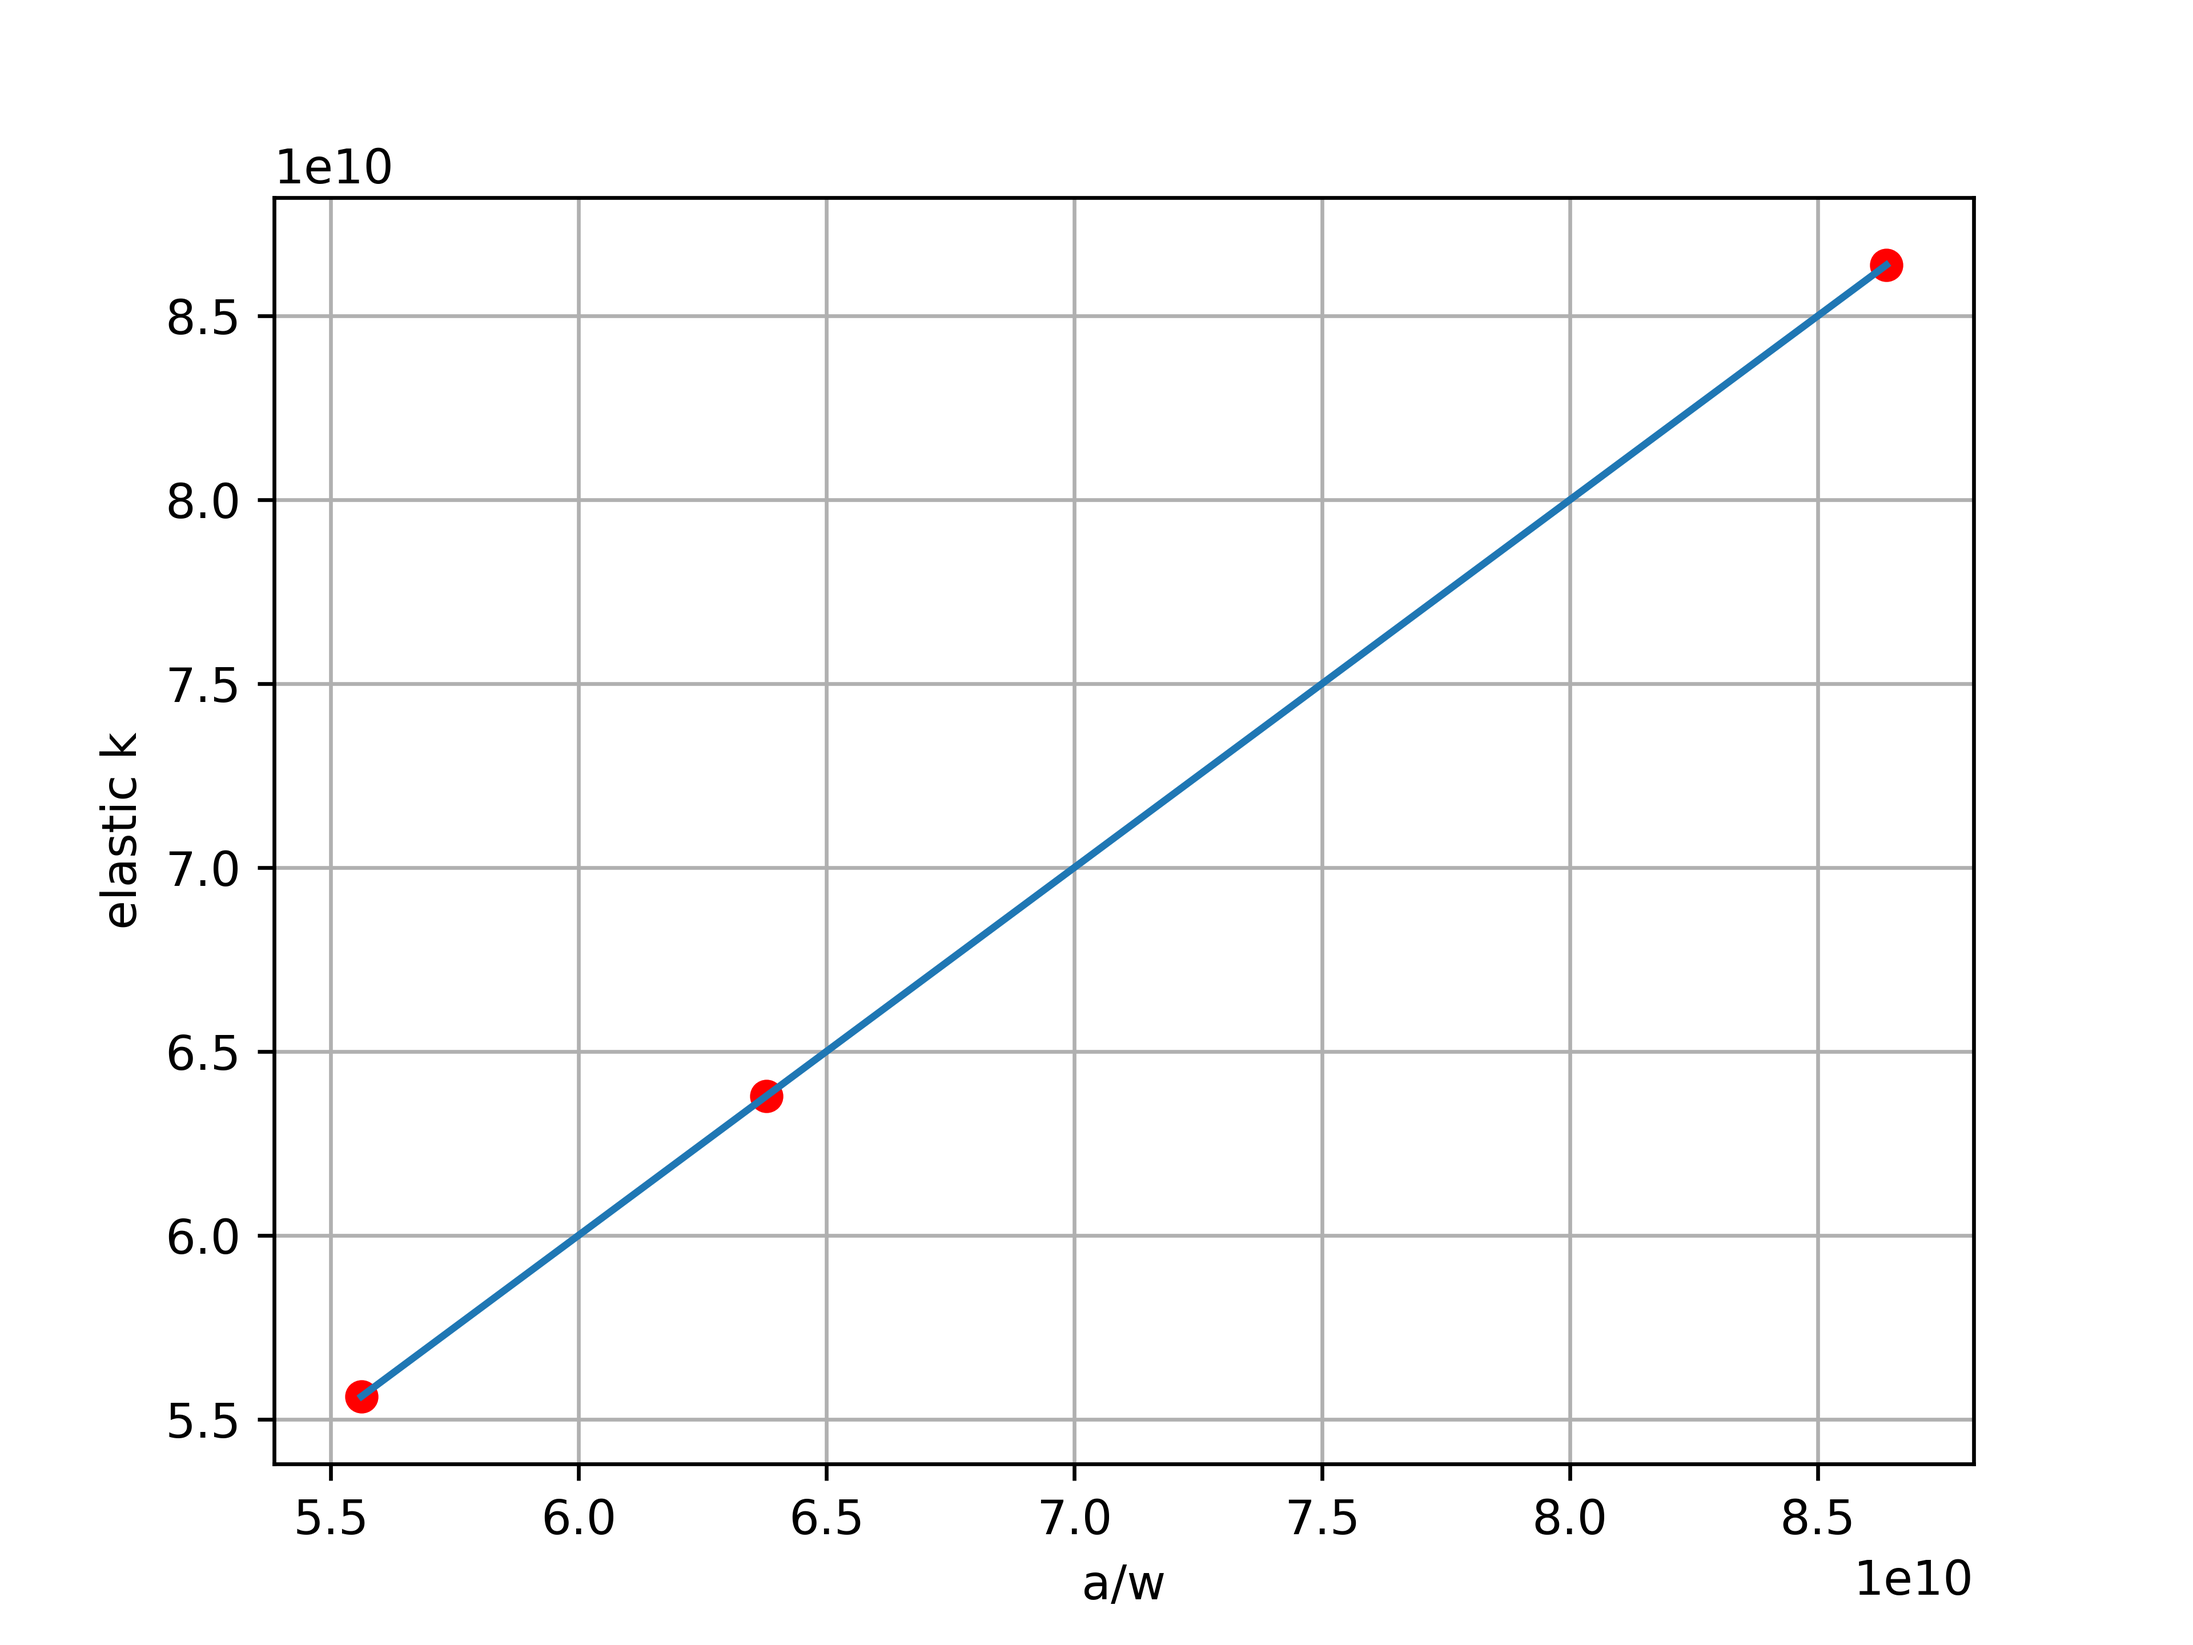
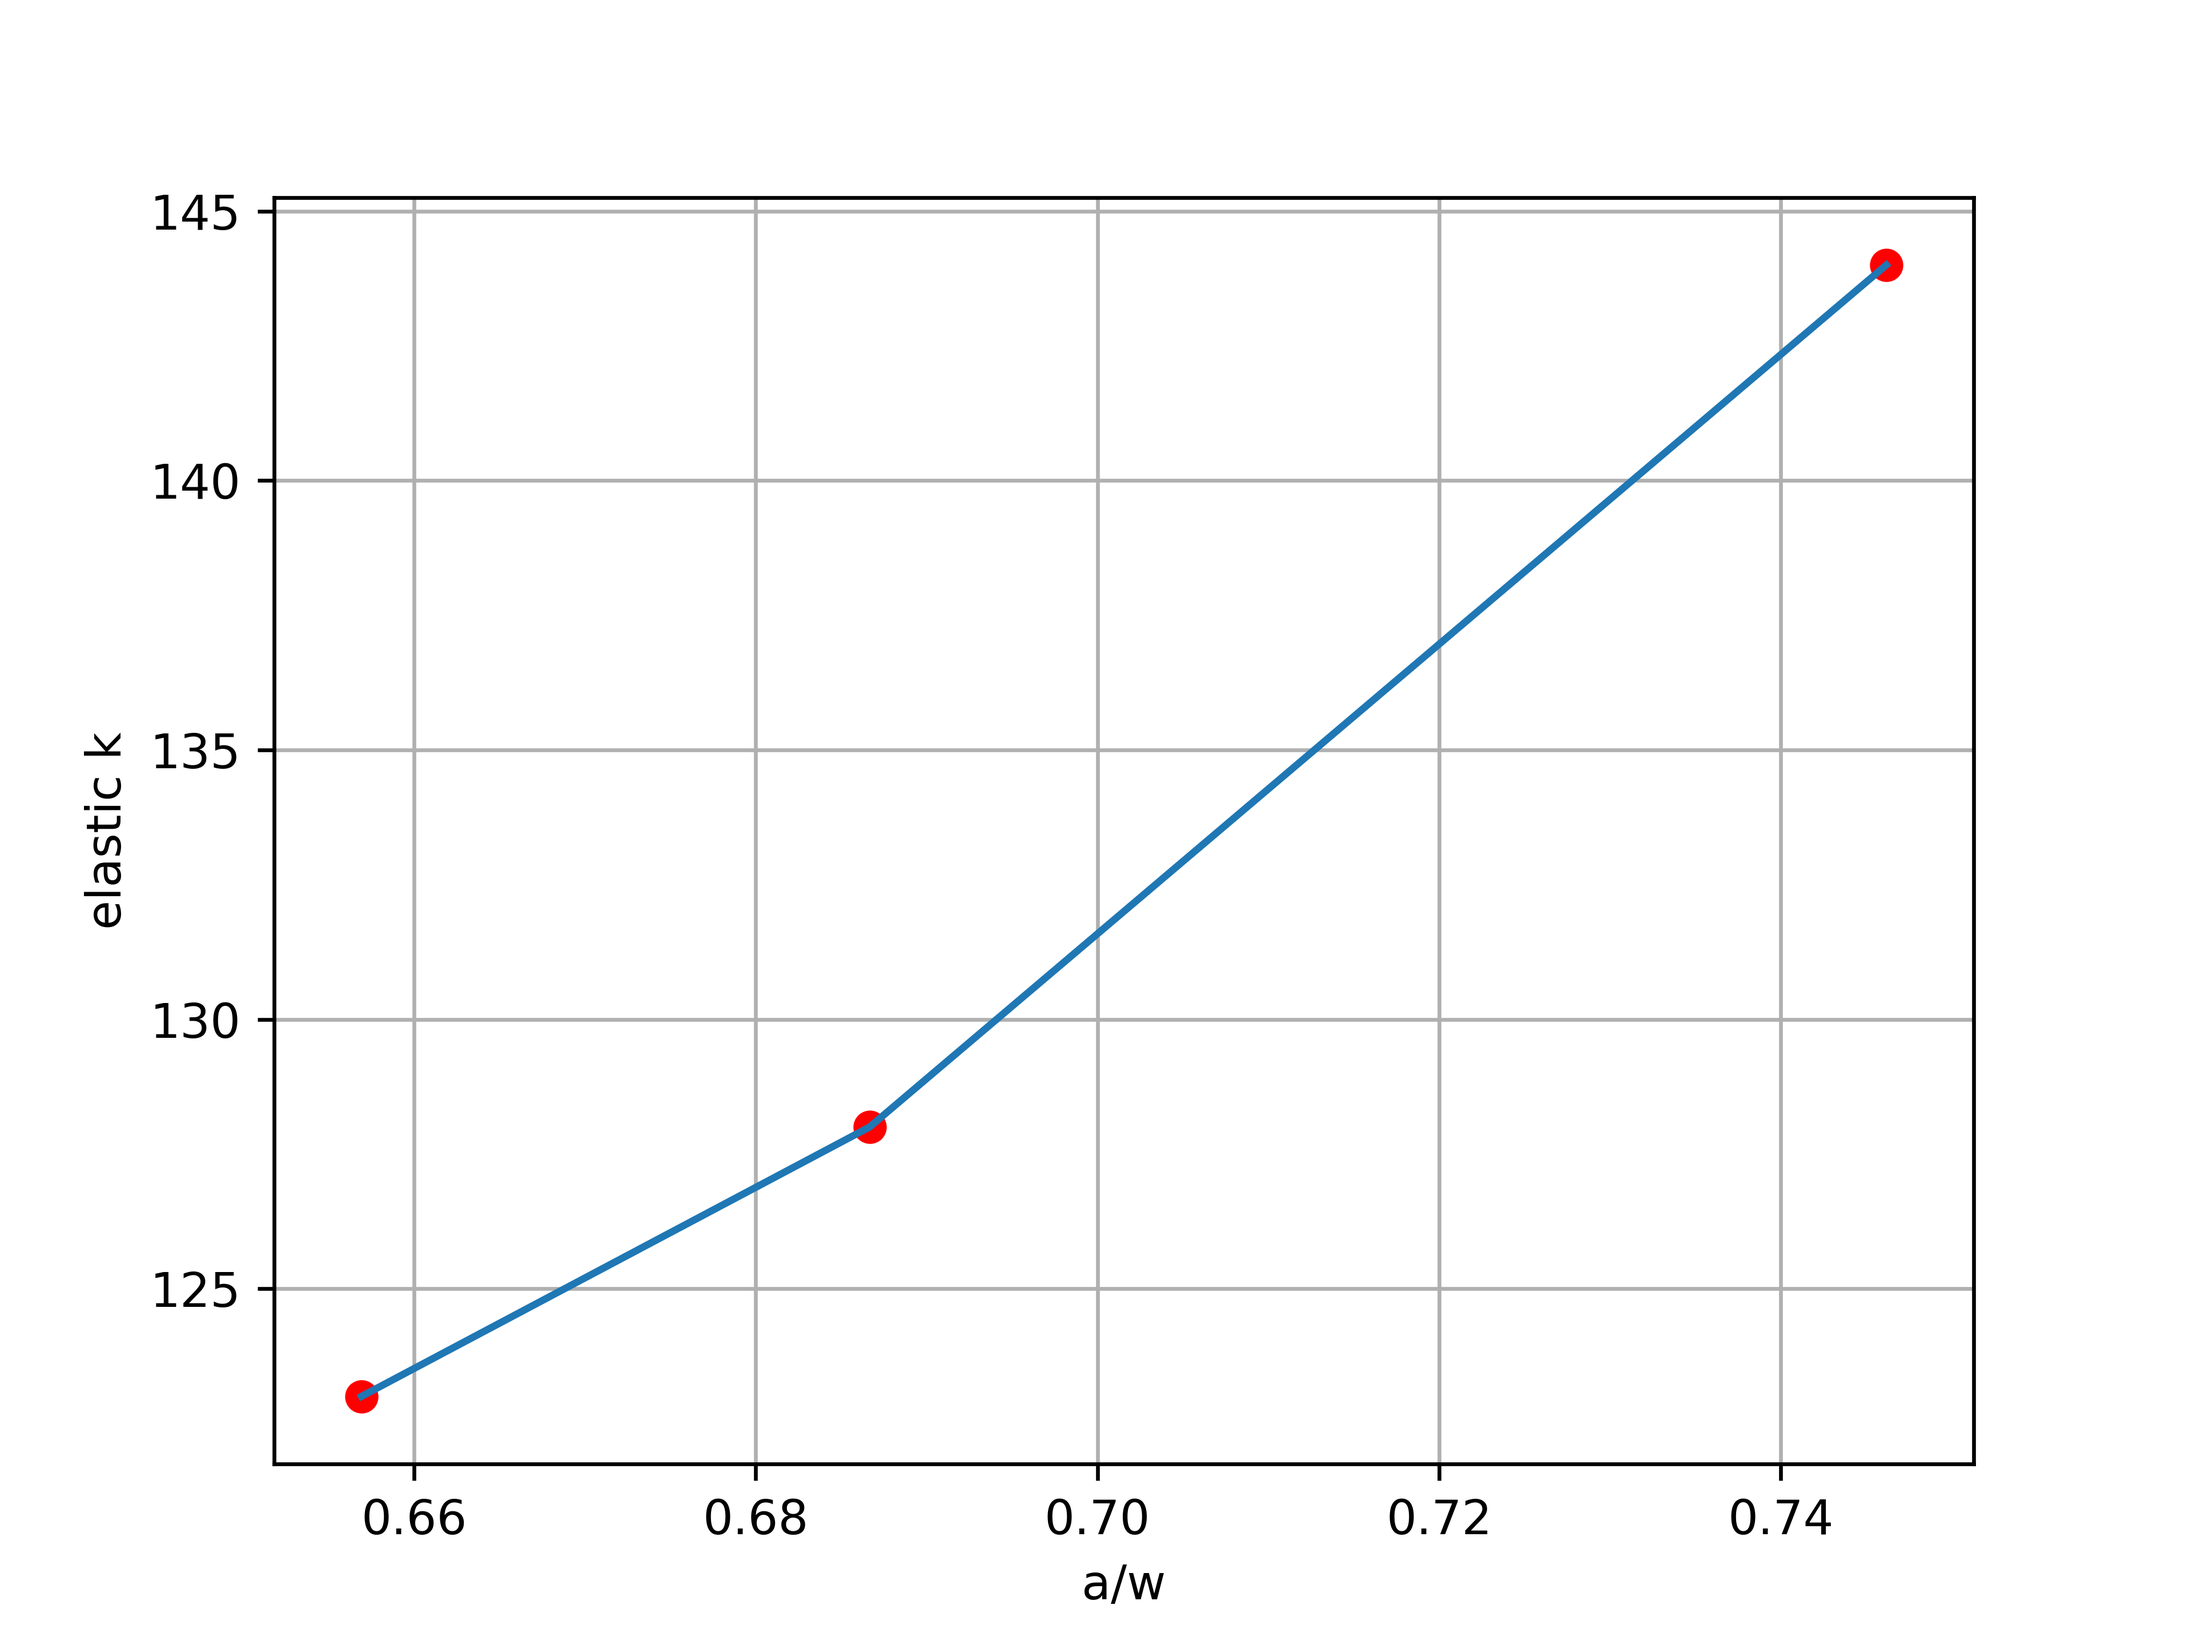
k

diff --git a/CTS Elastic K.py b/CTS Elastic K.py
@@ -10,13 +10,16 @@ y = []
 print(np.shape(data))
 
 for i in data:
-    nuber = i[0]; a = i[4]*10; p = i[8]/1000; b = 0.3; w = 3
-    a=fuction.CTS(a,w,p,b)
-    a.k1()
-    kk = round(a.k1())
+    nuber = i[0]; a = i[4]/10; p = i[8]/1000; b = 0.3; w = 3
+    aa=fuction.CTS(a,w,p,b)
+    aa.k1()
+    kk = round(aa.k1())
     y.append(kk)
-    x.append(a.k1())
 
+    x.append(a/w)
+
+print(x)
+print(y)
 plt.plot(x,y)
 plt.scatter(x, y, c='red')
 plt.xlabel('a/w')
